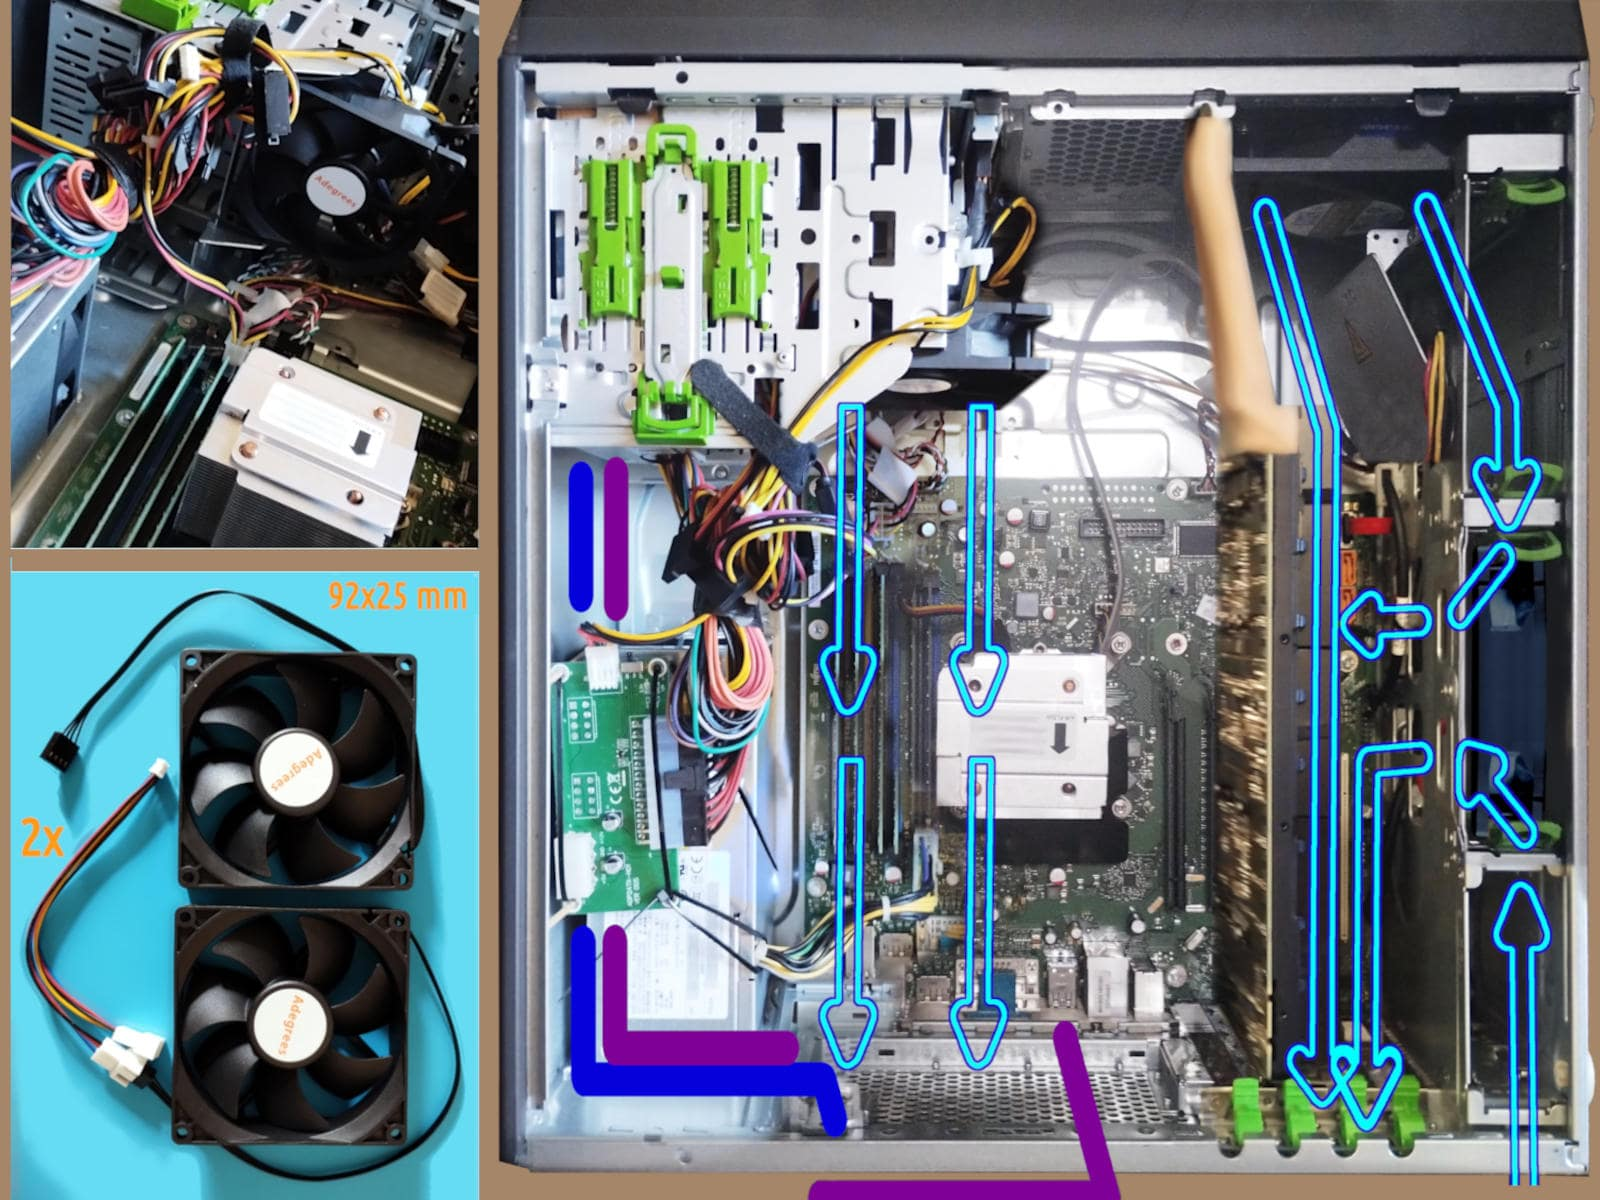
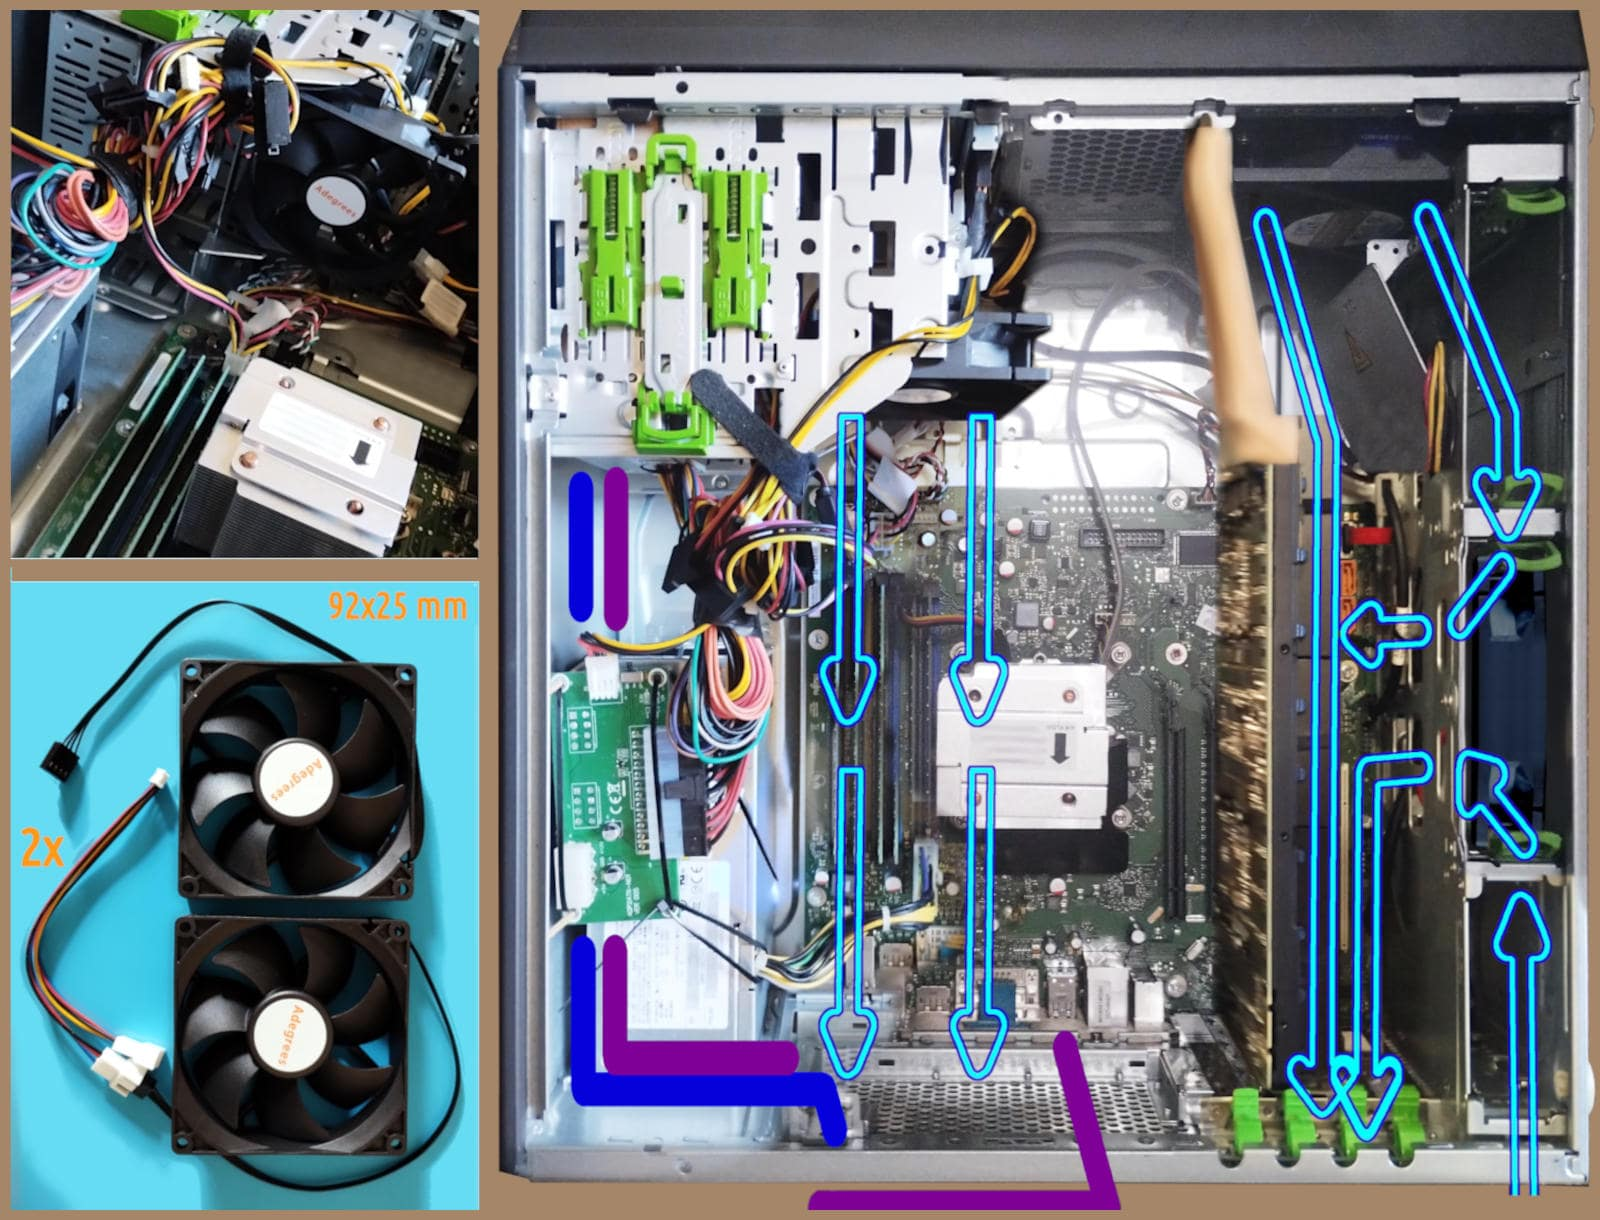
README.md: updated + index.html

diff --git a/index.html b/index.html
@@ -17,7 +17,7 @@
     <body>
 <p class='topbar'></p>
 <div class='topbar' width='800px' translate='no'><b id='menu' onClick='nextStylesheet()'>&thinsp;&#9783;&thinsp;&Ropf;</b> &thinsp;&mdash;&thinsp; &#8543;&#8239;release: <b class='topbar'>2024-11-17&nbsp;<sup class='date-type topbar' id='datenote'>(&hairsp;<a href='#date-legenda' class='date-type topbar'>2</a>&hairsp;)</sup></b>  &thinsp;&mdash;&thinsp; rev.: <b class='topbar
-'>110</b rev_num='
+'>111</b rev_num='
 '> &thinsp;&mdash;&thinsp; transl.:&nbsp; <a class='topbar' href='https://robang74-github-io.translate.goog/chatbots-for-fun/index.html?_x_tr_sl=en&_x_tr_tl=it&_x_tr_hl=it-IT&_x_tr_pto=wapp' target='_blank' rel='noopener noreferrer'>IT</a> &nbsp;<b>&middot;</b>&nbsp; <a class='topbar' href='https://robang74-github-io.translate.goog/chatbots-for-fun/index.html?_x_tr_sl=en&_x_tr_tl=de&_x_tr_hl=de-DE&_x_tr_pto=wapp' target='_blank' rel='noopener noreferrer'>DE</a> &nbsp;<b>&middot;</b>&nbsp; <a class='topbar' href='https://robang74-github-io.translate.goog/chatbots-for-fun/index.html?_x_tr_sl=en&_x_tr_tl=fr&_x_tr_hl=fr-FR&_x_tr_pto=wapp' target='_blank' rel='noopener noreferrer'>FR</a> &nbsp;<b>&middot;</b>&nbsp; <a class='topbar' href='https://robang74-github-io.translate.goog/chatbots-for-fun/index.html?_x_tr_sl=en&_x_tr_tl=es&_x_tr_hl=es-ES&_x_tr_pto=wapp' target='_blank' rel='noopener noreferrer'>ES</a> &thinsp;&mdash;&thinsp; goto:&nbsp; <a class='topbar' href='index.html#index'>&#x21b4;&hairsp;&#8505;&thinsp;&equiv;</a> &nbsp;<b>&middot;</b>&nbsp; <a class='topbar' href='../roberto-a-foglietta/index.html'target=_blank>RAF</a> &nbsp;<b>&middot;</b>&nbsp; <a class='topbar' href='../chatgpt-answered-prompts/index.html'target=_blank>Q&A</a> <span id='printlink'>&thinsp;&mdash;&thinsp; <b>⎙</b>&hairsp;: <a aria-label='print this page' class='topbar' href='javascript:window.print()'>PDF</a></span>&nbsp;</div>
 <div id="firstdiv">
 <p class='topbar'></p>
@@ -72,7 +72,9 @@ A grouped by topic and others articles are listed here below.
 <p></p>
 <hr class="post-it">
 <p></p>
-<li><b>Fujitsu Esprimo P910 E85+ w/ Nvidia Tesla K80 installation</b> &nbsp; (9 pz.)</li>
+<li><b>Fujitsu Esprimo P910 E85+ w/ Nvidia Tesla K80 installation</b> &nbsp; (10 pz.)</li>
+<p></p>
+<li class='li2in'>2025-03-14 - [<a href="https://raw.githubusercontent.com/robang74/chatbots-for-fun/refs/heads/main/p910-cooling-system-proposal-for-k80.md" target='_blank' rel='noopener noreferrer'><b><tt>raw</tt></b></a>] - <a href="html/p910-cooling-system-proposal-for-k80.html">P910 cooling system for K80</a></li>
 <p></p>
 <li class='li2in'>2025-02-23 - [<a href="https://raw.githubusercontent.com/robang74/chatbots-for-fun/refs/heads/main/grok3-comparison-table-value-for-money.md" target='_blank' rel='noopener noreferrer'><b><tt>raw</tt></b></a>] - <a href="html/grok3-comparison-table-value-for-money.html">Value-for-Money comparative analysis</a> by Grok3</li>
 <p></p>

diff --git a/README.md b/README.md
@@ -55,7 +55,9 @@ A grouped by topic and others articles are listed here below.
 
 ...
 
-* **Fujitsu Esprimo P910 E85+ w/ Nvidia Tesla K80 installation** &nbsp; (9 pz.)
+* **Fujitsu Esprimo P910 E85+ w/ Nvidia Tesla K80 installation** &nbsp; (10 pz.)
+
+   - 2025-03-14 - [[**`raw`**](https://raw.githubusercontent.com/robang74/chatbots-for-fun/refs/heads/main/p910-cooling-system-proposal-for-k80.md)] - [P910 cooling system for K80](p910-cooling-system-proposal-for-k80.md)
 
    - 2025-02-23 - [[**`raw`**](https://raw.githubusercontent.com/robang74/chatbots-for-fun/refs/heads/main/grok3-comparison-table-value-for-money.md)] - [Value-for-Money comparative analysis](grok3-comparison-table-value-for-money.md) by Grok3
 
